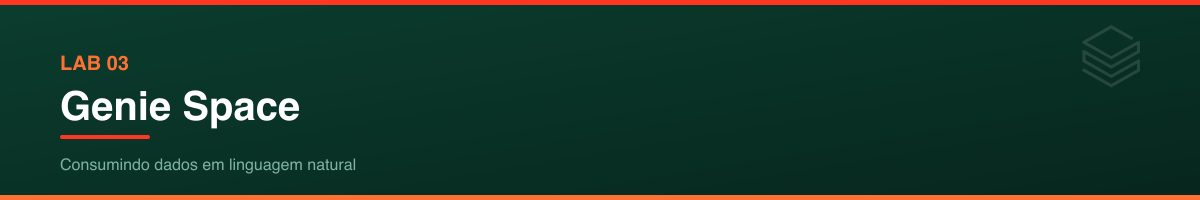
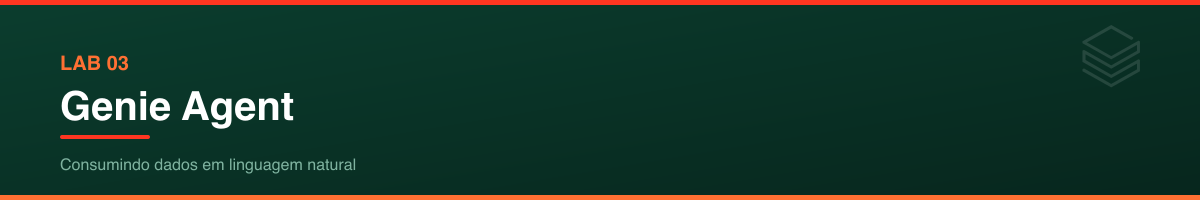
Renomeia Lab 3 de Genie Space para Genie Agent (README, notebooks, deck, header e ER)

Changed region(s): [[0.1542, 0.45, 0.2467, 0.66]]

diff --git a/03_Lab_Genie/03a_genie_to_do.py b/03_Lab_Genie/03a_genie_to_do.py
@@ -2,12 +2,12 @@
 # MAGIC %md
 # MAGIC <img src="https://raw.githubusercontent.com/juliandrof/workshop-eneva/main/images/header_lab3.png" width="100%"/>
 # MAGIC
-# MAGIC **Lab 3 — Criando e Curando uma Genie Space (exercício com TO-DOs)**
+# MAGIC **Lab 3 — Criando e Curando uma Genie Agent (exercício com TO-DOs)**
 # MAGIC
 # MAGIC O **Genie** permite que qualquer pessoa pergunte aos dados em **linguagem natural**
 # MAGIC (português!). Neste lab vamos:
 # MAGIC 1. Preparar **views** e **comentários** que ajudam o Genie a entender os dados
-# MAGIC 2. Criar uma **Genie Space** com as tabelas Gold
+# MAGIC 2. Criar uma **Genie Agent** com as tabelas Gold
 # MAGIC 3. Escrever **instruções customizadas** (o segredo de um bom Genie)
 # MAGIC 4. Testar com perguntas de negócio
 
@@ -108,7 +108,7 @@ spark.sql(f"""
 # COMMAND ----------
 
 # MAGIC %md
-# MAGIC ## 3. Criar a Genie Space (na UI)
+# MAGIC ## 3. Criar a Genie Agent (na UI)
 # MAGIC
 # MAGIC 1. Vá em **Genie** (menu lateral) > **New**
 # MAGIC 2. **Título**: `Geração Eneva - <seu_nome>`
@@ -125,7 +125,7 @@ spark.sql(f"""
 # MAGIC ## 4. Instruções customizadas do Genie
 # MAGIC
 # MAGIC Este é o passo mais importante! Execute a célula abaixo e **copie o texto** para o
-# MAGIC campo **Instructions** da sua Genie Space.
+# MAGIC campo **Instructions** da sua Genie Agent.
 
 # COMMAND ----------
 
@@ -181,7 +181,7 @@ print("=" * 70)
 # MAGIC %md
 # MAGIC ## 5. Perguntas de exemplo (curadoria)
 # MAGIC
-# MAGIC Na Genie Space, cadastre algumas perguntas como **Sample Questions** para orientar
+# MAGIC Na Genie Agent, cadastre algumas perguntas como **Sample Questions** para orientar
 # MAGIC os usuários:
 # MAGIC
 # MAGIC 1. *"Qual usina gerou mais energia?"*

diff --git a/build_deck.py b/build_deck.py
@@ -240,7 +240,7 @@ def build_agenda(sid):
         ("—", "15 min", "Teoria — Data + AI Platform & Arquitetura Medallion"),
         ("01", "30 min", "Lab 1 — Ingestão de Dados (upload CSV/XLSX)"),
         ("02", "40 min", "Lab 2 — Transformação com LakeFlow Designer"),
-        ("03", "30 min", "Lab 3 — Genie Space (linguagem natural)"),
+        ("03", "30 min", "Lab 3 — Genie Agent (linguagem natural)"),
         ("04", "30 min", "Lab 4 — AI/BI Dashboards"),
         ("—", "15 min", "Resumo & Encerramento"),
     ]
@@ -609,7 +609,7 @@ def main():
     dividers = [
         ("s_sec1", "Lab 1 — Ingestão de Dados  (30 min)"),
         ("s_sec2", "Lab 2 — Transformação com LakeFlow Designer  (40 min)"),
-        ("s_sec3", "Lab 3 — Genie Space  (30 min)"),
+        ("s_sec3", "Lab 3 — Genie Agent  (30 min)"),
         ("s_sec4", "Lab 4 — AI/BI Dashboards  (30 min)"),
     ]
     for sid, title in dividers:
@@ -632,10 +632,10 @@ def main():
         ("Publique com Output e rode",
          "Operador Output (workshop_eneva, schema <nome>) para cada silver_*/gold_* → Run"),
     ]))
-    batch_update(build_lab_handson("s_lab3", "3", "Genie Space", "30 min", [
+    batch_update(build_lab_handson("s_lab3", "3", "Genie Agent", "30 min", [
         ("Complete os TO-DOs",
          "03a_genie_to_do.py — views, comentários em tabelas e colunas, instruções customizadas"),
-        ("Crie a Genie Space",
+        ("Crie a Genie Agent",
          "Genie > New > Geração Eneva - <nome> — adicione as tabelas Gold e views"),
         ("Cole as instruções e teste",
          "Contexto Eneva + glossário do setor elétrico. Pergunte: “Qual usina gerou mais energia?”"),

diff --git a/03_Lab_Genie/03b_genie_completo.py b/03_Lab_Genie/03b_genie_completo.py
@@ -2,7 +2,7 @@
 # MAGIC %md
 # MAGIC <img src="https://raw.githubusercontent.com/juliandrof/workshop-eneva/main/images/header_lab3.png" width="100%"/>
 # MAGIC
-# MAGIC **Lab 3 — Criando e Curando uma Genie Space (versão completa / referência)**
+# MAGIC **Lab 3 — Criando e Curando uma Genie Agent (versão completa / referência)**
 
 # COMMAND ----------
 
@@ -95,7 +95,7 @@ print("Comentários de coluna adicionados!")
 # COMMAND ----------
 
 # MAGIC %md
-# MAGIC ## 4. Criar a Genie Space (na UI)
+# MAGIC ## 4. Criar a Genie Agent (na UI)
 # MAGIC
 # MAGIC 1. Vá em **Genie** > **New**
 # MAGIC 2. **Título**: `Geração Eneva - <seu_nome>`
@@ -157,7 +157,7 @@ print("=" * 70)
 # MAGIC %md
 # MAGIC ## 6. Testar o Genie
 # MAGIC
-# MAGIC Após criar a Genie Space, teste com perguntas como:
+# MAGIC Após criar a Genie Agent, teste com perguntas como:
 # MAGIC
 # MAGIC 1. **"Qual usina gerou mais energia no período?"**
 # MAGIC 2. **"Qual a participação de cada fonte na matriz de geração?"**

diff --git a/04_Lab_AIBI/04b_dashboard_completo.py b/04_Lab_AIBI/04b_dashboard_completo.py
@@ -135,5 +135,5 @@ for titulo, sql in queries.items():
 # MAGIC
 # MAGIC - **Lab 1** — Ingestão: upload manual de CSV/XLSX → camada Bronze
 # MAGIC - **Lab 2** — Transformação: LakeFlow Designer (Silver/Gold, 4 transformações)
-# MAGIC - **Lab 3** — Genie Space: análise em linguagem natural
+# MAGIC - **Lab 3** — Genie Agent: análise em linguagem natural
 # MAGIC - **Lab 4** — AI/BI Dashboard: visualizações interativas

diff --git a/images/generate_er.py b/images/generate_er.py
@@ -93,7 +93,7 @@ LAYERS = [
 
 STACKED_DEFS = [
     ("GENIE", "#E0F7FA", "#00838F", [
-        ("Genie Space", [
+        ("Genie Agent", [
             ("Linguagem natural", ""), ("Tabelas Gold + views", ""),
             ("Instruções customizadas", ""),
         ]),

diff --git a/images/generate_headers.py b/images/generate_headers.py
@@ -72,7 +72,7 @@ HEADERS = {
                               "Upload manual de CSV/XLSX &#183; Camada Bronze"),
     "header_lab2": lab_header("LAB 02", "Transforma&#231;&#227;o &#8212; LakeFlow Designer",
                               "Silver &amp; Gold &#183; 4 transforma&#231;&#245;es low-code"),
-    "header_lab3": lab_header("LAB 03", "Genie Space",
+    "header_lab3": lab_header("LAB 03", "Genie Agent",
                               "Consumindo dados em linguagem natural"),
     "header_lab4": lab_header("LAB 04", "AI/BI Dashboards",
                               "Visualiza&#231;&#245;es interativas da gera&#231;&#227;o"),

diff --git a/README.md b/README.md
@@ -34,7 +34,7 @@ Workshop prático de Databricks personalizado para o time da **Eneva**, com foco
 | 00 | **Setup** | Catálogo compartilhado `workshop_eneva` + schema pessoal (seu nome) | 15 min |
 | 01 | **Ingestão de Dados** | Upload manual de arquivos (CSV + Excel) via Catalog (Create table), camada Bronze | 30 min |
 | 02 | **Transformação — LakeFlow Designer** | Visual data prep (no-code): Silver/Gold, 3 transformações | 40 min |
-| 03 | **Genie Space** | Consumo de dados em linguagem natural, instruções customizadas | 30 min |
+| 03 | **Genie Agent** | Consumo de dados em linguagem natural, instruções customizadas | 30 min |
 | 04 | **AI/BI Dashboards** | Visualizações interativas, KPIs, gráficos | 30 min |
 |    | **Encerramento** | Considerações finais e perguntas | 15 min |
 
@@ -78,7 +78,7 @@ do Lab 2. Todas as tabelas são ingeridas na camada **Bronze** por upload manual
 | `CREATE SCHEMA` | `workshop_eneva.<nome>` (schema pessoal) | 00 |
 | `USE CATALOG` / `USE SCHEMA` | Catálogo `workshop_eneva` e schema do participante | Todos |
 | `CREATE TABLE` / `SELECT` / `MODIFY` | Tabelas no schema do participante (upload no Lab 1, saídas do Lab 2) | Todos |
-| `CREATE GENIE` / `USE GENIE` | Genie Space com as tabelas Gold | 03 |
+| `CREATE GENIE` / `USE GENIE` | Genie Agent com as tabelas Gold | 03 |
 | `CREATE DASHBOARD` | AI/BI Dashboard | 04 |
 | `USE CLUSTER` / `ATTACH` | Cluster ou Serverless | Todos |
 
@@ -369,11 +369,11 @@ Cada prompt do Genie Code já gera a tabela de saída indicada. Confirme que cad
 
 ---
 
-## Lab 03 — Genie Space
+## Lab 03 — Genie Agent
 
 | Item | Detalhes |
 | -- | -- |
-| **Objetivo** | Criar e curar uma Genie Space para consultar a geração em linguagem natural |
+| **Objetivo** | Criar e curar uma Genie Agent para consultar a geração em linguagem natural |
 | **Notebook (exercício)** | `03_Lab_Genie/03a_genie_to_do.py` |
 | **Notebook (referência)** | `03_Lab_Genie/03b_genie_completo.py` |
 
@@ -388,7 +388,7 @@ Cada prompt do Genie Code já gera a tabela de saída indicada. Confirme que cad
 | 3 | Adicionar **comentários** em colunas-chave |
 | 4 | Revisar as **instruções customizadas** do Genie |
 
-2. **Crie a Genie Space**: **Genie** > **New** > adicione as tabelas Gold e views
+2. **Crie a Genie Agent**: **Genie** > **New** > adicione as tabelas Gold e views
 3. **Cole as instruções customizadas** (contexto Eneva + glossário do setor elétrico)
 4. **Teste o Genie** com perguntas como:
    - *"Qual usina gerou mais energia no período?"*